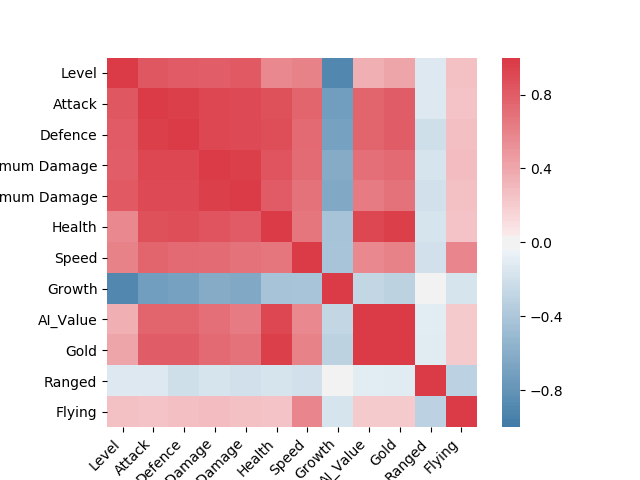
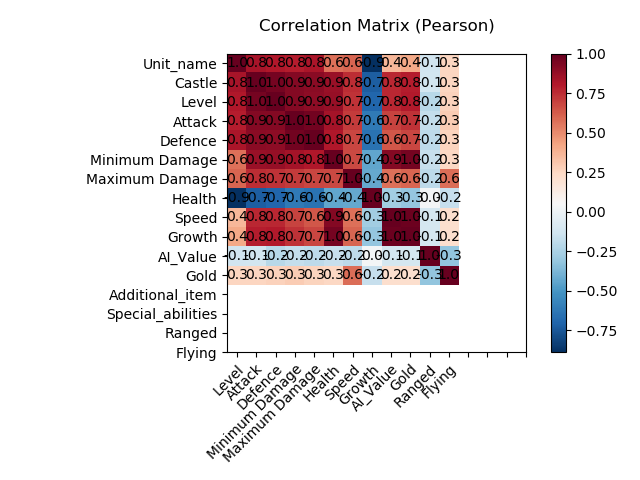
Updated Corrplot

diff --git a/exploration.py b/exploration.py
@@ -53,23 +53,45 @@ str_cols = [x for x in data.columns if data[x].dtype == "object"]
 
 
 # compute pearson correlations
-corr_matrix = data[num_cols].corr(method="pearson")
+data_corr = data[num_cols].corr(method="pearson")
 
-# plot correlation matrix
-corrplot = sns.heatmap(
-    corr_matrix,
-    vmin=-1, vmax=1, center=0,
-    cmap=sns.diverging_palette(240, 10, n=200),
-    square=True
-)
-corrplot.set_xticklabels(
-    corrplot.get_xticklabels(),
-    rotation=45,
-    horizontalalignment='right'
-)
+# plotting
+fig, ax = plt.subplots()
+cax = ax.matshow(data_corr, cmap="RdBu_r")
 
-# save corrplot as png
-corrplot.figure.savefig(r"plots/corrplot.png")
+# legend
+fig.colorbar(cax)
+
+# x tick labels
+ax.xaxis.set_ticks_position("bottom")
+tick_marks = [i for i in range(len(data.columns))]
+plt.xticks(tick_marks, data_corr.columns)
+
+# Rotate x tick labels & set alignment
+plt.setp(ax.get_xticklabels(), rotation=45, ha="right", rotation_mode="anchor")
+
+# y tick labels
+plt.yticks(tick_marks, data.columns)
+
+# Loop over DataFrame and set text labels in each tile
+for i in range(len(data_corr.columns)):
+    for j in range(len(data_corr.columns)):
+        text = ax.text(
+            j,
+            i,
+            round(data_corr.values[i, j], 1),
+            ha="center",
+            va="center",
+            color="black",
+        )
+
+# title label
+ax.set_title("Correlation Matrix (Pearson)")
+fig.tight_layout()
+
+# output plot
+fig.savefig(r"plots/corrplot.png")
+plt.show()
 
 # -----------------------------------------------------------------------------
 
